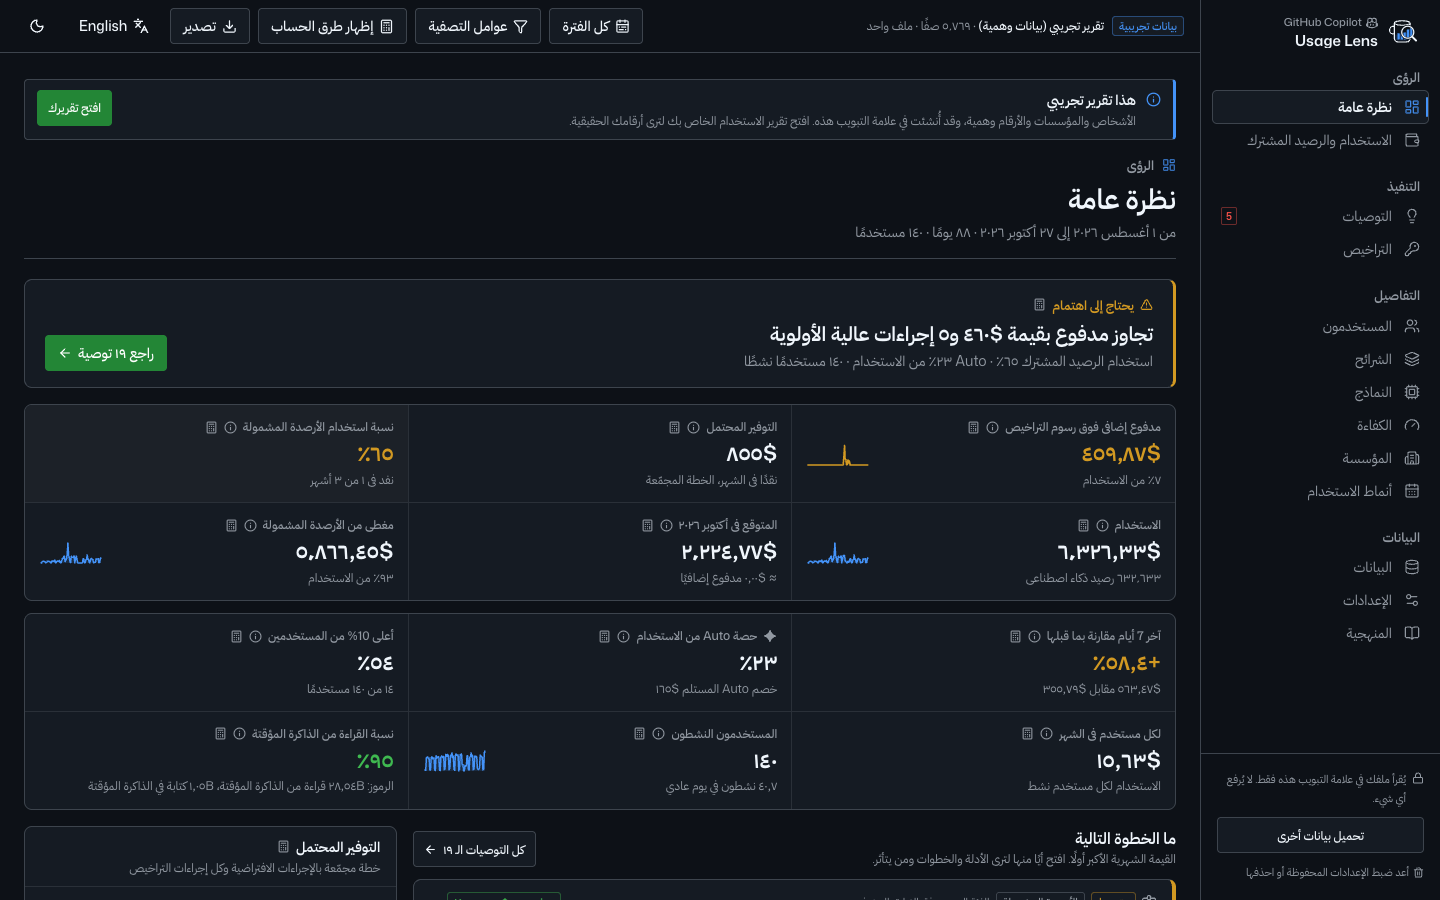
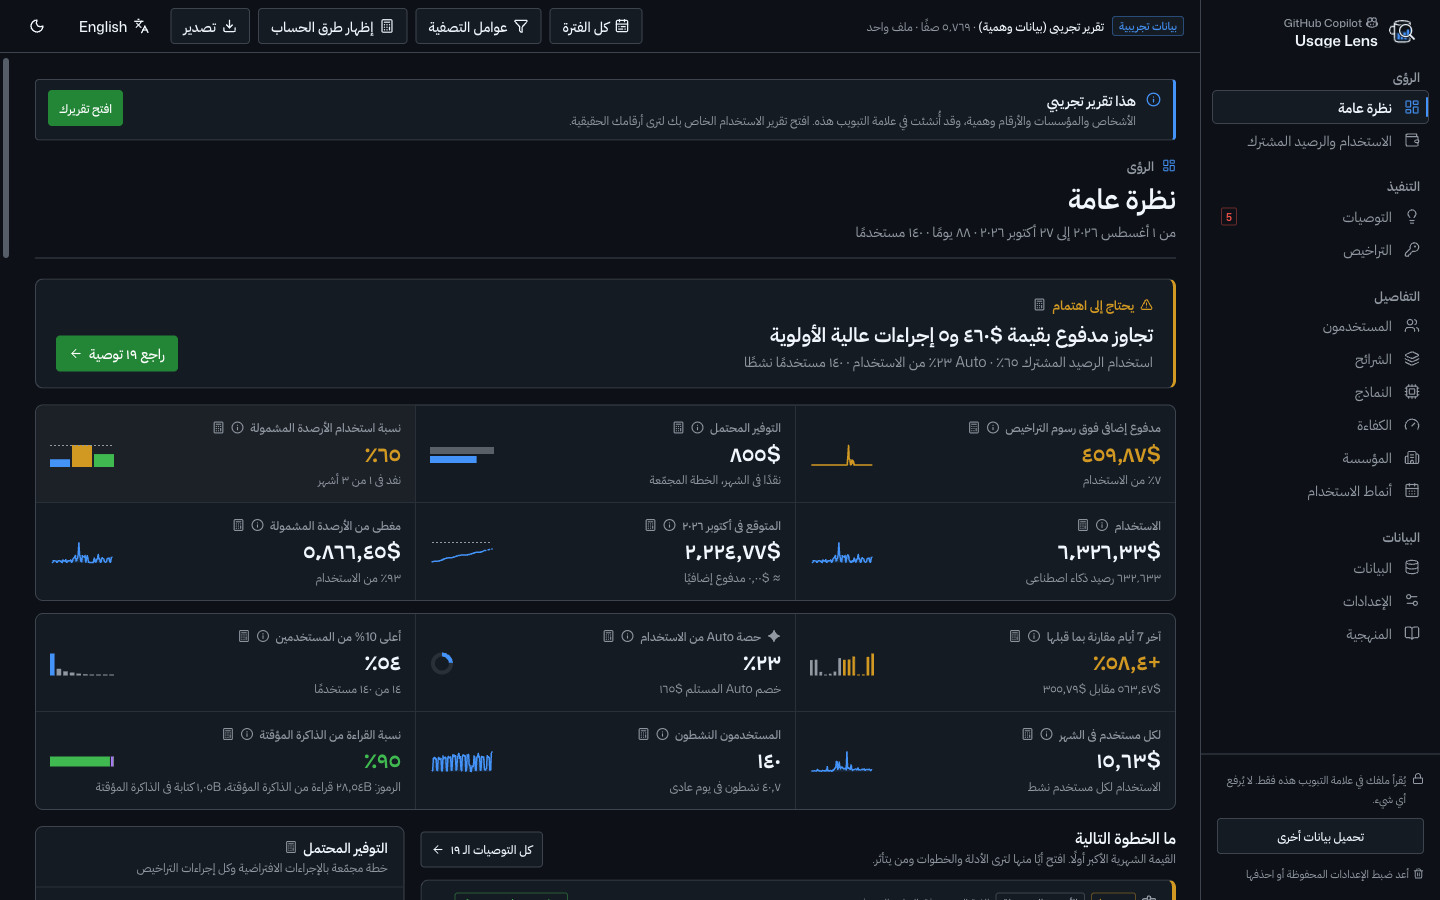
feat: add MiniCharts component for small KPI visualizations and integrate into Kpi component

diff --git a/src/pages/OverviewPage.tsx b/src/pages/OverviewPage.tsx
@@ -4,7 +4,7 @@ import { useChartColors } from '../components/charts/EChart';
 import { donutOption, rankBarOption, stackedTimeOption, type TimeSeriesInput } from '../components/charts/helpers';
 import { NoRows } from '../components/NoRows';
 import { RecommendationCard } from '../components/RecommendationCard';
-import { CalcInfo, Callout, Card, ChartCard, DocLinks, EmptyState, Kpi, KpiGrid, PageHeader, ProgressBar, Segmented, TONE_TEXT, cx, taxLookup, type Tone } from '../components/ui';
+import { CalcInfo, Callout, Card, ChartCard, DocLinks, EmptyState, Kpi, KpiGrid, MINI_COLOR, MiniBurnUp, MiniColumns, MiniCompare, MiniRing, MiniSplit, PageHeader, ProgressBar, Segmented, TONE_TEXT, cx, taxLookup, type Tone } from '../components/ui';
 import { FeatureIcon } from '../components/icons';
 import { T, msg, t, tp } from '../i18n';
 import { rollupByCategory } from '../lib/analytics/aggregate';
@@ -64,6 +64,34 @@ function HeadlineBanner() {
   );
 }
 
+/** Running usage total for every day of the month so far. Days without rows keep the total of the day before. */
+function monthToDate(month: { monthStart: number; cumulative: readonly { day: number; gross: number }[] }): number[] {
+  const last = month.cumulative.at(-1);
+  if (!last) return [];
+  const totals = new Array<number>(last.day - month.monthStart + 1).fill(0);
+  let running = 0;
+  let pointIndex = 0;
+  for (let dayOffset = 0; dayOffset < totals.length; dayOffset++) {
+    const point = month.cumulative[pointIndex];
+    if (point && point.day === month.monthStart + dayOffset) {
+      running = point.gross;
+      pointIndex++;
+    }
+    totals[dayOffset] = running;
+  }
+  return totals;
+}
+
+/** Usage of each tenth of users, heaviest first. */
+function usageByTenth(sortedDescending: readonly number[]): number[] {
+  if (sortedDescending.length < 10) return [];
+  const tenths = new Array<number>(10).fill(0);
+  sortedDescending.forEach((gross, index) => {
+    tenths[Math.min(9, Math.floor((index * 10) / sortedDescending.length))] += gross;
+  });
+  return tenths;
+}
+
 function KpiRows() {
   const { analysis, store, settings } = useAnalysis();
   const { agg: aggregates, pool, plan, narrowed, range, trend, users, population, auto } = analysis;
@@ -88,8 +116,22 @@ function KpiRows() {
     const sorted = users.profiles.map((user) => user.gross).sort((a, b) => b - a);
     const total = sorted.reduce((a, b) => a + b, 0);
     const topCount = Math.max(1, Math.ceil(sorted.length * 0.1));
-    return { k: topCount, n: sorted.length, share: total > 0 ? sorted.slice(0, topCount).reduce((a, b) => a + b, 0) / total : 0 };
+    return { k: topCount, n: sorted.length, share: total > 0 ? sorted.slice(0, topCount).reduce((a, b) => a + b, 0) / total : 0, tenths: usageByTenth(sorted) };
   }, [users]);
+
+  // Usage per active user on each day with activity, for the per-user trend.
+  const perUserDaily = useMemo(() => {
+    const values: number[] = [];
+    for (let i = 0; i < aggregates.days.activeUsers.length; i++) {
+      if (aggregates.days.activeUsers[i] > 0) values.push(aggregates.days.gross[i] / aggregates.days.activeUsers[i]);
+    }
+    return values;
+  }, [aggregates]);
+
+  const lastTwoWeeks = Array.from(aggregates.days.gross.slice(-14));
+  const poolMonths = poolKnown ? pool.months.filter((month) => Number.isFinite(month.utilization)) : [];
+  const burnUp = latest && projection ? monthToDate(latest) : [];
+  const monthLimit = latest && poolKnown && !latest.capacityExceeded && latest.capacity > 0 ? latest.capacity : undefined;
 
   const averageDailyUsers = useMemo(() => {
     let sum = 0;
@@ -128,6 +170,7 @@ function KpiRows() {
           sub={cashKnown ? t('cash per month, combined plan') : t('less usage per month')}
           hint={t('What the default levers (model right-sizing, Auto, caching, leaner context, caps) and the seat actions save together. Ideas that overlap are counted once. Open Recommendations to change the assumptions.')}
           calc="savings-plan"
+          mini={cashKnown ? <MiniCompare before={plan.baseCost} after={plan.newCost} /> : <MiniCompare before={plan.levers.baseline} after={plan.levers.final} />}
           onClick={() => navigate('recommendations')}
         />
         <Kpi
@@ -147,6 +190,15 @@ function KpiRows() {
           }
           hint={t('Share of the included credits that was used. A low value means you pay for credits nobody uses. At 100%, extra usage is billed.')}
           calc="pool-utilization"
+          mini={
+            poolMonths.length > 0 ? (
+              <MiniColumns
+                values={poolMonths.map((month) => month.utilization)}
+                reference={1}
+                colorOf={(_index, utilization) => MINI_COLOR[utilization >= 0.999 ? 'warn' : utilization < 0.4 ? 'info' : 'good']}
+              />
+            ) : undefined
+          }
           onClick={() => navigate('spend')}
         />
         <Kpi
@@ -166,6 +218,7 @@ function KpiRows() {
             sub={!cashKnown ? t('month-end usage') : t('≈ {amount} billed', { amount: fmtUSD(projection.projNet) })}
             hint={t('Month-end estimate from the recent daily rate. The Usage and pool page shows the range.')}
             calc="projection"
+            mini={<MiniBurnUp cumulative={burnUp} daysInMonth={latest.daysInMonth} projected={projection.projGross} limit={monthLimit} />}
             onClick={() => navigate('spend')}
           />
         ) : (
@@ -175,6 +228,7 @@ function KpiRows() {
             sub={t('usage per month')}
             hint={t('Usage in the selected period, scaled to a month of 30.4 days.')}
             calc="per-month"
+            mini={pool.months.length > 1 ? <MiniColumns values={pool.months.map((month) => month.gross)} /> : undefined}
             onClick={() => navigate('spend')}
           />
         )}
@@ -204,6 +258,11 @@ function KpiRows() {
           }
           hint={t('Usage of the last 7 days of the period compared with the 7 days before.')}
           calc="week-over-week"
+          mini={
+            trend.reliable && lastTwoWeeks.length === 14 ? (
+              <MiniColumns values={lastTwoWeeks} colorOf={(index) => (index < 7 ? 'var(--fg-subtle)' : MINI_COLOR[trend.change > 0.25 ? 'warn' : 'accent'])} />
+            ) : undefined
+          }
           onClick={() => navigate('patterns')}
         />
         <Kpi
@@ -222,6 +281,7 @@ function KpiRows() {
           }
           hint={t('Share of usage where GitHub Copilot picked the model. The Auto model selection card below shows the discount received and the original price.')}
           calc={['auto-share', 'auto-discount']}
+          mini={analysis.coverage.models ? <MiniRing fraction={auto.share} tone={auto.total > 0 && auto.share < settings.lowAuto ? 'warn' : 'accent'} /> : undefined}
           onClick={() => navigate('models')}
         />
         <Kpi
@@ -230,6 +290,7 @@ function KpiRows() {
           sub={tp(top.n, '{k} of {n} user', '{k} of {n} users', { k: fmtInt(top.k), n: fmtInt(top.n) })}
           hint={t('Share of all usage that comes from the heaviest tenth of users. When it is high, a few users decide the bill.')}
           calc="top-decile-share"
+          mini={top.tenths.length > 0 ? <MiniColumns values={top.tenths} colorOf={(index) => (index === 0 ? MINI_COLOR.accent : 'var(--fg-subtle)')} /> : undefined}
           onClick={() => navigate('users')}
         />
         <Kpi
@@ -239,6 +300,7 @@ function KpiRows() {
           sub={t('usage per active user')}
           hint={t('Average monthly usage of an active user. Compare it with the credits included in a seat ($19 Business, $39 Enterprise).')}
           calc={['per-user-month', 'previous-period']}
+          spark={perUserDaily.length > 1 ? perUserDaily : undefined}
           onClick={() => navigate('users')}
         />
         <Kpi
@@ -267,6 +329,17 @@ function KpiRows() {
           }
           hint={t('Cache read tokens ÷ (input + cache read + cache write tokens). Cache read tokens are text the model has seen before and reads again at a lower price. Cache write tokens are text the model stores so it can read it again later.')}
           calc={['cache-hit', 'tokens-cache-read', 'tokens-cache-write']}
+          mini={
+            Number.isFinite(cacheHit) ? (
+              <MiniSplit
+                parts={[
+                  { value: totals.cacheRead, color: MINI_COLOR[cacheHit < settings.lowCacheHit ? 'warn' : 'good'] },
+                  { value: totals.cacheWrite, color: 'var(--cp-series-3)' },
+                  { value: totals.input, color: 'var(--fg-subtle)' },
+                ]}
+              />
+            ) : undefined
+          }
           onClick={() => navigate('efficiency')}
         />
       </KpiGrid>

diff --git a/src/components/ui/MiniCharts.tsx b/src/components/ui/MiniCharts.tsx
@@ -1,0 +1,164 @@
+import type { ReactNode } from 'react';
+import type { Tone } from './Primitives';
+import { cx } from './cx';
+
+/** Small charts for KPI tiles. They only repeat what the tile says in words, so they are hidden from screen readers. */
+
+const WIDTH = 64;
+const HEIGHT = 24;
+
+export const MINI_COLOR: Record<Tone, string> = {
+  neutral: 'var(--fg-subtle)',
+  good: 'var(--good)',
+  warn: 'var(--warn)',
+  bad: 'var(--bad)',
+  info: 'var(--info)',
+  accent: 'var(--accent)',
+};
+
+const TRACK = 'var(--border-muted)';
+const MUTED = 'var(--fg-subtle)';
+
+const finite = (value: number): number => (Number.isFinite(value) ? Math.max(0, value) : 0);
+
+function Frame({ children, className, width = WIDTH }: { children: ReactNode; className?: string; width?: number }) {
+  return (
+    <svg width={width} height={HEIGHT} viewBox={`0 0 ${width} ${HEIGHT}`} className={cx('shrink-0', className)} aria-hidden>
+      {children}
+    </svg>
+  );
+}
+
+export interface MiniColumnsProps {
+  values: readonly number[];
+  /** Color of each column; defaults to the tone. */
+  colorOf?: (index: number, value: number) => string;
+  tone?: Tone;
+  /** Draws a dashed line at this value, for example 1 for 100%. */
+  reference?: number;
+  className?: string;
+}
+
+/** Column chart: one column per month, week, day or group. */
+export function MiniColumns({ values, colorOf, tone = 'accent', reference, className }: MiniColumnsProps) {
+  if (values.length === 0) return null;
+  const top = Math.max(...values.map(finite), reference ?? 0) || 1;
+  const gap = values.length > 16 ? 1 : 2;
+  const columnWidth = Math.max(1, (WIDTH - gap * (values.length - 1)) / values.length);
+  const scale = (value: number) => (finite(value) / top) * (HEIGHT - 2);
+  return (
+    <Frame className={className}>
+      {values.map((value, index) => {
+        const columnHeight = Math.max(finite(value) > 0 ? 1 : 0, scale(value));
+        return (
+          <rect
+            key={index}
+            x={index * (columnWidth + gap)}
+            y={HEIGHT - columnHeight}
+            width={columnWidth}
+            height={columnHeight}
+            rx={0.5}
+            fill={colorOf ? colorOf(index, value) : MINI_COLOR[tone]}
+          />
+        );
+      })}
+      {reference !== undefined ? (
+        <line x1={0} x2={WIDTH} y1={HEIGHT - scale(reference) + 0.5} y2={HEIGHT - scale(reference) + 0.5} stroke={MUTED} strokeWidth={1} strokeDasharray="2 2" />
+      ) : null}
+    </Frame>
+  );
+}
+
+/** Ring that fills to a share between 0 and 1. */
+export function MiniRing({ fraction, tone = 'accent', className }: { fraction: number; tone?: Tone; className?: string }) {
+  const radius = 9;
+  const circumference = 2 * Math.PI * radius;
+  const filled = Math.min(1, finite(fraction)) * circumference;
+  const centerX = HEIGHT / 2;
+  return (
+    <Frame className={className} width={HEIGHT}>
+      <circle cx={centerX} cy={HEIGHT / 2} r={radius} fill="none" stroke={TRACK} strokeWidth={4} />
+      <circle
+        cx={centerX}
+        cy={HEIGHT / 2}
+        r={radius}
+        fill="none"
+        stroke={MINI_COLOR[tone]}
+        strokeWidth={4}
+        strokeDasharray={`${filled} ${circumference}`}
+        transform={`rotate(-90 ${centerX} ${HEIGHT / 2})`}
+      />
+    </Frame>
+  );
+}
+
+export interface MiniPart {
+  value: number;
+  color: string;
+}
+
+/** One bar split into parts, for shares of a whole. */
+export function MiniSplit({ parts, className }: { parts: readonly MiniPart[]; className?: string }) {
+  const total = parts.reduce((sum, part) => sum + finite(part.value), 0);
+  if (total <= 0) return null;
+  const barHeight = 10;
+  let offset = 0;
+  return (
+    <Frame className={className}>
+      {parts.map((part, index) => {
+        const partWidth = (finite(part.value) / total) * WIDTH;
+        const x = offset;
+        offset += partWidth;
+        return partWidth > 0 ? <rect key={index} x={x} y={(HEIGHT - barHeight) / 2} width={Math.max(2, partWidth - (index < parts.length - 1 ? 1 : 0))} height={barHeight} fill={part.color} /> : null;
+      })}
+    </Frame>
+  );
+}
+
+/** Two bars: what it is now (gray) and what it would be after a change (colored). */
+export function MiniCompare({ before, after, tone = 'accent', className }: { before: number; after: number; tone?: Tone; className?: string }) {
+  const top = Math.max(finite(before), finite(after));
+  if (top <= 0) return null;
+  const barHeight = 7;
+  return (
+    <Frame className={className}>
+      <rect x={0} y={4} width={Math.max(1, (finite(before) / top) * WIDTH)} height={barHeight} fill={MUTED} opacity={0.55} />
+      <rect x={0} y={HEIGHT - 4 - barHeight} width={Math.max(1, (finite(after) / top) * WIDTH)} height={barHeight} fill={MINI_COLOR[tone]} />
+    </Frame>
+  );
+}
+
+export interface MiniBurnUpProps {
+  /** Running total for each day so far this month. */
+  cumulative: readonly number[];
+  daysInMonth: number;
+  /** Expected running total at the end of the month. */
+  projected: number;
+  /** Optional limit drawn as a dashed line, such as the included credits of the month. */
+  limit?: number;
+  tone?: Tone;
+  className?: string;
+}
+
+/** Running total of the month so far, with a dashed line to the expected month-end figure. */
+export function MiniBurnUp({ cumulative, daysInMonth, projected, limit, tone = 'accent', className }: MiniBurnUpProps) {
+  if (cumulative.length === 0 || daysInMonth < 2) return null;
+  const top = Math.max(finite(projected), ...cumulative.map(finite), limit !== undefined && Number.isFinite(limit) ? limit : 0) || 1;
+  const padding = 2;
+  const xAt = (day: number) => padding + (day / (daysInMonth - 1)) * (WIDTH - 2 * padding);
+  const yAt = (value: number) => HEIGHT - padding - (finite(value) / top) * (HEIGHT - 2 * padding);
+  const points = cumulative.map((value, day) => `${xAt(day).toFixed(1)},${yAt(value).toFixed(1)}`);
+  const lastDay = cumulative.length - 1;
+  const color = MINI_COLOR[tone];
+  return (
+    <Frame className={className}>
+      {limit !== undefined && Number.isFinite(limit) && limit > 0 ? (
+        <line x1={padding} x2={WIDTH - padding} y1={yAt(limit)} y2={yAt(limit)} stroke={MUTED} strokeWidth={1} strokeDasharray="2 2" />
+      ) : null}
+      <polyline points={points.join(' ')} fill="none" stroke={color} strokeWidth={1.5} strokeLinejoin="round" strokeLinecap="round" />
+      {lastDay < daysInMonth - 1 ? (
+        <line x1={xAt(lastDay)} y1={yAt(cumulative[lastDay])} x2={xAt(daysInMonth - 1)} y2={yAt(projected)} stroke={color} strokeWidth={1.5} strokeDasharray="2 2" strokeLinecap="round" />
+      ) : null}
+    </Frame>
+  );
+}

diff --git a/src/components/ui/Kpi.tsx b/src/components/ui/Kpi.tsx
@@ -28,6 +28,8 @@ export interface KpiProps {
   calc?: CalcRef;
   icon?: ReactNode;
   spark?: ArrayLike<number>;
+  /** Another small chart from `MiniCharts`, used when a trend line does not fit the figure. Ignored when `spark` is set. */
+  mini?: ReactNode;
   onClick?: () => void;
   className?: string;
 }
@@ -44,7 +46,7 @@ const VALUE_TONE: Record<Tone, string> = {
 /** True inside a KpiGrid: the figures then share one ruled panel instead of being separate boxes. */
 const InLedger = createContext(false);
 
-export function Kpi({ label, value, sub, delta, goodWhen = 'none', tone = 'neutral', hint, calc, icon, spark, onClick, className }: KpiProps) {
+export function Kpi({ label, value, sub, delta, goodWhen = 'none', tone = 'neutral', hint, calc, icon, spark, mini, onClick, className }: KpiProps) {
   const inLedger = useContext(InLedger);
   const dir = delta ? (delta.pct > 0.005 ? 1 : delta.pct < -0.005 ? -1 : 0) : 0;
   const deltaTone = dir === 0 || goodWhen === 'none' ? 'text-fg-muted' : (dir > 0) === (goodWhen === 'up') ? 'text-good' : 'text-bad';
@@ -68,7 +70,7 @@ export function Kpi({ label, value, sub, delta, goodWhen = 'none', tone = 'neutr
         </div>
         <div className="flex items-end justify-between gap-2">
           <div className={cx('font-display num min-w-0 truncate text-[22px] leading-tight', VALUE_TONE[tone])}>{value}</div>
-          {spark ? <Sparkline className="hidden @min-[200px]:block" values={spark} width={64} height={24} tone={tone === 'neutral' ? 'accent' : tone} /> : null}
+          {spark ? <Sparkline className="hidden @min-[200px]:block" values={spark} width={64} height={24} tone={tone === 'neutral' ? 'accent' : tone} /> : mini ? <div className="hidden @min-[200px]:block">{mini}</div> : null}
         </div>
         <div className="flex min-h-4 flex-wrap items-center gap-x-2 text-xs text-fg-muted">
           {delta ? (

diff --git a/src/components/ui/index.ts b/src/components/ui/index.ts
@@ -12,3 +12,4 @@ export { Kpi, KpiGrid, type KpiDelta, type KpiProps } from './Kpi';
 export { MultiSelect, type MultiOption } from './MultiSelect';
 export { sortOptions, PINNED_VALUES, type OptionOrder } from './sortOptions';
 export { InfoTip, ProgressBar, Sparkline, type ProgressBarProps, type SparklineProps } from './Viz';
+export { MiniBurnUp, MiniColumns, MiniCompare, MiniRing, MiniSplit, MINI_COLOR, type MiniPart } from './MiniCharts';
